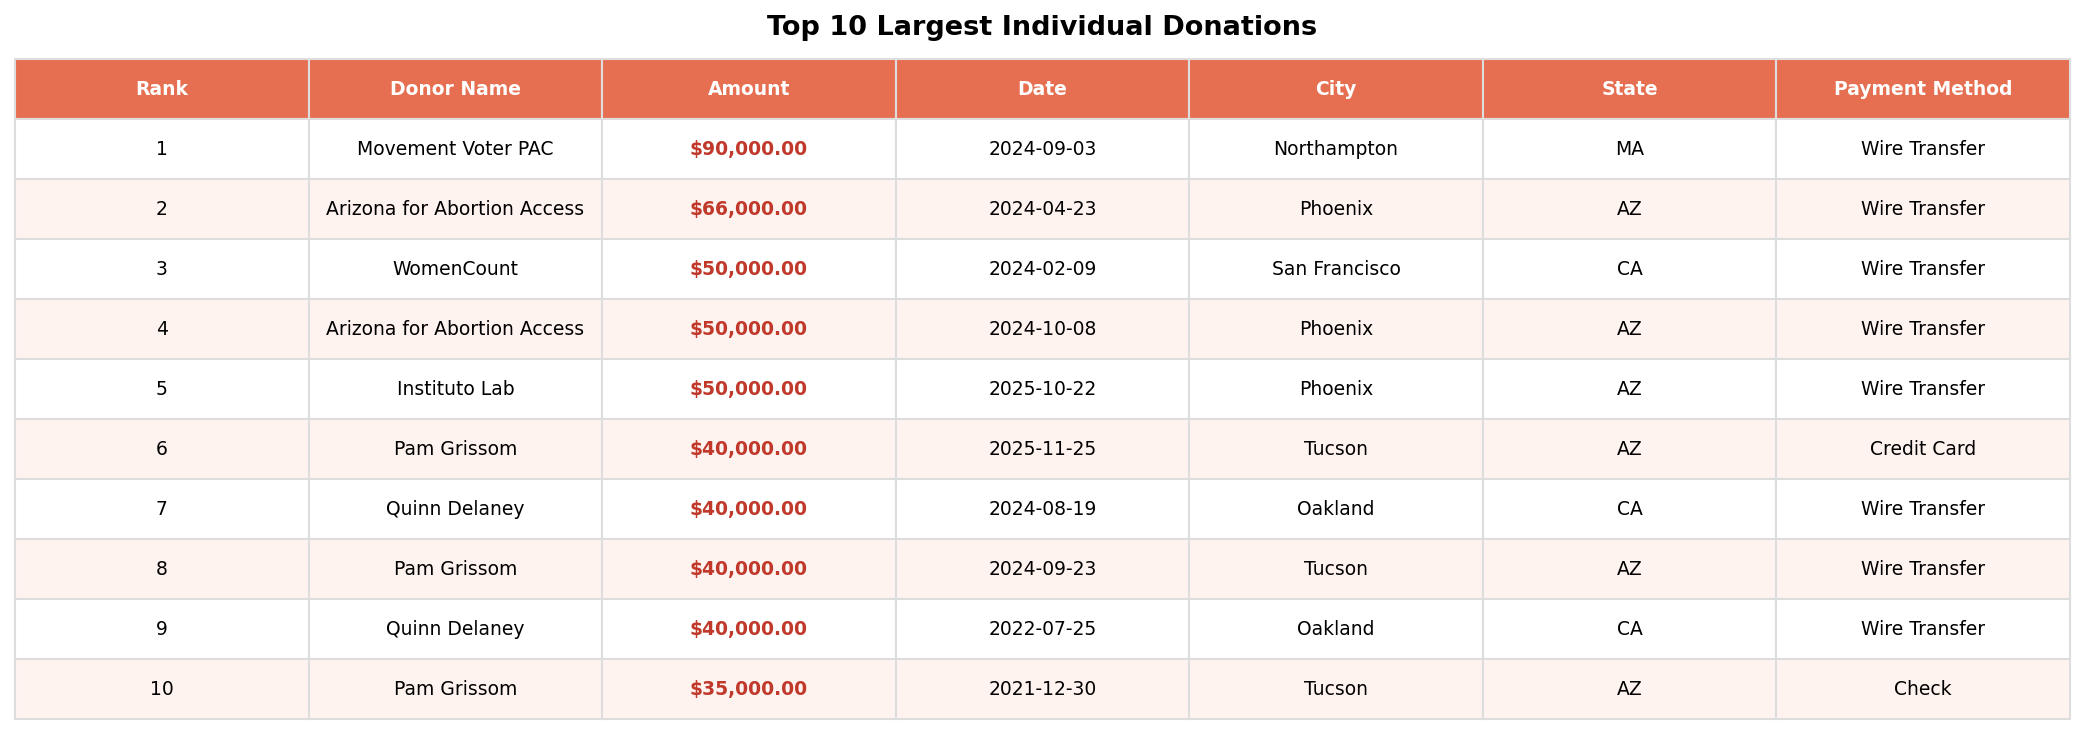
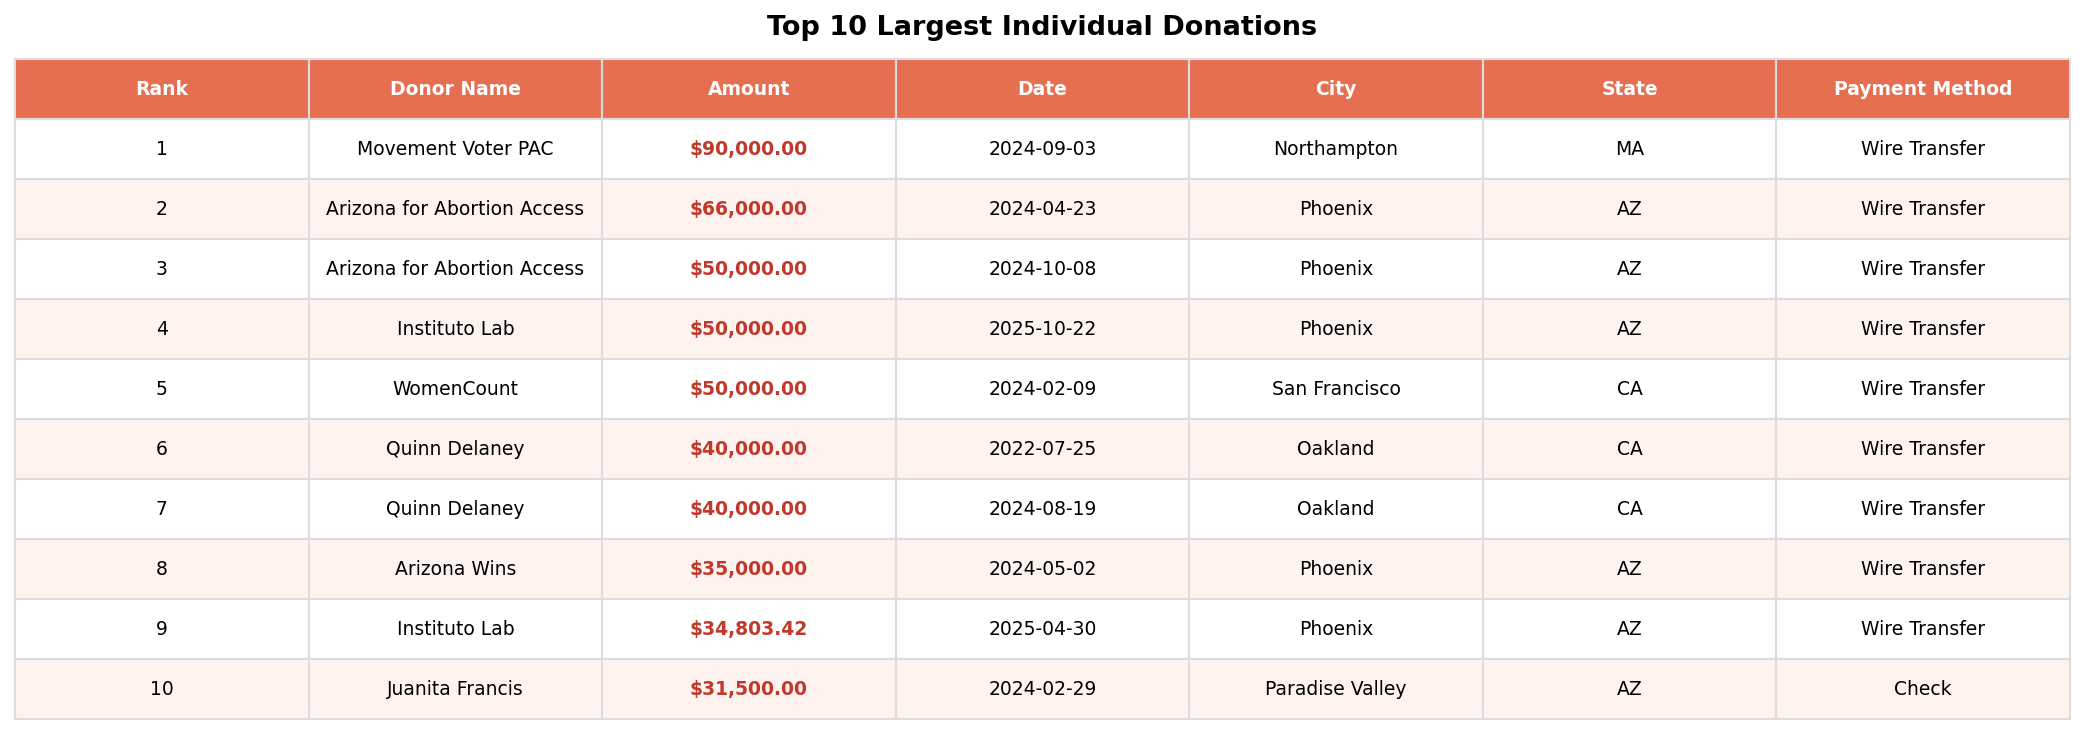
Commit

diff --git a/scripts/donor_location_analysis.py b/scripts/donor_location_analysis.py
@@ -39,6 +39,9 @@ with ENGINE.connect() as conn:
         FROM contributions co
         JOIN contacts c ON co.vanid = c.vanid
         WHERE co.amount > 0
+          AND COALESCE(NULLIF(TRIM(c.official_name), ''),
+                       NULLIF(TRIM(c.first || ' ' || c.last), ''),
+                       'Unknown') NOT ILIKE '%Pam Grissom%'
         ORDER BY co.amount DESC
         LIMIT 10
     """), conn)

diff --git a/analysis/technical_summary_report.md b/analysis/technical_summary_report.md
@@ -83,10 +83,6 @@ The LC represents just 5% of the full donor base — an intentionally exclusive 
 
 ![Donors vs. Leadership Council](lapsed_donor_reactivation/figures/donor_vs_leadership_council.svg)
 
-- The LC is a small, elite segment — 386 people out of nearly 8,000 donors.
-- 95% of donors have never been formally identified as LC members, representing a large pool of potential candidates for cultivation.
-- Because pre-2019 data is incomplete, the true LC membership count is likely higher than 386.
-
 ---
 
 ## 3. Direct Mail Opportunity: People Without an Email Address
@@ -123,9 +119,8 @@ For the address check, we required both a system-verified best address and confi
 
 ![Direct Mail Opportunity](lapsed_donor_reactivation/figures/mailing_no_email_opportunity.svg)
 
-- 16,440 people cannot receive an email from us — if we don't mail them, we have no way to reach out at all.
-- This group represents about 20% of all contacts in the database, a significant audience that is currently unreachable through digital channels.
-- The gap between "no email" (19,319) and "mailable + no email" (16,440) shows that roughly 2,900 people have neither a usable email nor a complete mailing address — entirely out of reach by any channel.
+- 16,440 people cannot receive an email from us, we can only mail them for reaching out
+- The gap between "no email" (19,319) and "mailable + no email" (16,440) shows that roughly 2,900 people have neither a usable email nor a complete mailing address 
 
 ---
 
@@ -158,9 +153,8 @@ Rather than mailing all 16,440 people at once, we slice by recency to create a s
 
 📄 **Export:** [people_added_since_january_postcard_outreach.csv](lapsed_donor_reactivation/people_added_since_january_postcard_outreach.csv)
 
-- The current list is small (6 people), but the process is what matters — run it again next quarter and it will automatically surface the next batch.
-- 5 of the 6 are in Arizona, consistent with our core geographic base.
-- One contact (Bradford Coleman, AR) is outside Arizona, suggesting some national reach through referrals or events.
+- The current list has 6 people
+
 
 ---
 
@@ -220,7 +214,7 @@ Value outranks recency in the ordering. A donor who gave $500/year for a decade 
 
 | Metric | Average |
 |--------|---------|
-| Years of giving | 7.4 |
+| Years of giving | 7.4 years |
 | Longest consecutive streak | 5.3 years |
 | Lifetime giving amount | $3,044 |
 
@@ -268,13 +262,13 @@ Because AZ's total ($5.87M) is over 11x the next highest state ($509K), we produ
 **Top 15 states by total giving:**
 ![State Donations Total](figures/state_donations_total.png)
 
-- Arizona dominates total volume with $5.87M — more than 11x the next highest state — reflecting our core geographic base.
+- Arizona dominates total volume with $5.87M, more than 11x the next highest state.
 - California and DC are nearly tied on total amount ($509K vs $505K), but DC has far fewer donors (317 vs 719), meaning DC donors give significantly more per person.
 
 **Year-over-year trends — top 12 states (including AZ):**
 ![State Donation Trends](figures/state_donations_trends.png)
 
-- AZ shows strong growth in 2024, reaching a record high of ~$700K — a notable acceleration after relatively flat years from 2017 to 2023.
+- AZ shows strong growth in 2024, reaching a record high of ~$700K.
 - Most non-AZ states show concentrated spikes in 2023–2024, suggesting election-cycle driven giving rather than consistent year-round engagement.
 - CA and DC have grown substantially since 2021, indicating expanding national reach.
 
@@ -303,23 +297,19 @@ The map answers the question the bar chart can't: are we geographically concentr
 **Top 20 ZIP Codes by total giving:**
 ![Top 20 ZIP Codes](figures/top20_zip_codes.png)
 
-- ZIP 85718 (Tucson foothills) alone accounts for $1.68M — nearly 3x the second-ranked ZIP — driven partly by a small number of very large donors in that area.
-- The top 5 ZIP codes are all in the 857xx range (Tucson), reflecting strong geographic concentration in one city.
-- ZIP 85004 (downtown Phoenix) ranks 3rd despite having only 218 donations, suggesting a cluster of high-capacity donors rather than broad community giving.
+- The top five ZIP codes are all in the 857xx range, which shows that giving is heavily concentrated in Tucson rather than spread evenly across different cities.
 
 **Top 20 ZIP Codes by total giving (excluding Pam Grissom — founder, not counted as donor):**
 ![Top 20 ZIP Codes excl. Grissom](figures/top20_zip_codes_excl_grissom.png)
 
-- After removing Pam Grissom's contributions, 85718 drops from $1.68M to $569K, revealing how much of that ZIP's total was driven by a single donor.
-- The ranking otherwise remains largely stable, confirming that the broader geographic patterns are genuine and not distorted by individual outliers.
-- This version gives a more accurate picture of community-level giving by ZIP code.
+- After removing Pam Grissom's contributions, 85718 drops from $1.68M to $569K, which means Pam Grissom donated over 1M!
+
 
 **National donor location map:**
 ![Donor Location Map](figures/donor_location_map.png)
 
 - The vast majority of donors are concentrated in southern Arizona, particularly in the Tucson and Phoenix metro areas.
 - A meaningful cluster is visible on the East Coast (DC, MA, NY), consistent with the high average donation amounts seen in those states.
-- Overall, the donor base is geographically concentrated — national reach exists but is thin outside of Arizona.
 
 ---
 
@@ -333,28 +323,31 @@ How have donation patterns shifted across cities and counties year over year?
 **City over time — number of donations (top 20 cities):**
 ![City Donations Count](figures/city_donations_count.png)
 
-- Tucson consistently leads in donation volume by a wide margin, with Phoenix a distant second.
-- Most cities show a noticeable uptick in donation count starting around 2022–2024, aligning with election cycle activity.
-- Smaller cities like Green Valley and Oro Valley show steady, low-volume giving — loyal but limited in scale.
+- Top 5 cities by total number of donations: Tucson 23,011 / Phoenix 8,603 / Scottsdale 2,776 / Tempe 2,022  / Flagstaff 1,665.
+
+- Tucson consistently leads in donation volume, with Phoenix a distant second
 
 **City over time — total amount (top 20 cities):**
 ![City Donations Amount](figures/city_donations_amount.png)
 
+- Top 5 cities by total donation amount: Tucson $3,829,899 / Phoenix $1,357,111 / Scottsdale $243,473 / Tempe $154,897 / Flagstaff $90,231.
 - Tucson and Phoenix dominate total dollar amounts, but Phoenix shows stronger growth in 2024–2025, narrowing the gap with Tucson.
 - Paradise Valley stands out: relatively few donations but a sharp spike in amount in 2025, indicating a small number of very large donations from a wealthy area.
 - Several mid-sized cities (Flagstaff, Mesa, Scottsdale) show consistent growth in total amount since 2020.
+- Lakeside ranks 14th by total amount ($28,536) despite having only 5 donors and 56 donations. Two donors account for 99% of that total — one gave a single $15,000 donations in March 2026, another gave $13,375 across 42 donations from 2004–2018.
 
 **County over time — number of donations (top 20 counties):**
 ![County Donations Count](figures/county_donations_count.png)
 
-- Pima County (Tucson) accounts for the overwhelming majority of donations by count, with Maricopa County (Phoenix) in second.
+- Top 5 counties by number of donations : Pima 25,136 / Maricopa 18,278 / Coconino 1,810 / Pinal 1,155 / Yavapai 1,071.
+- Pima County accounts for the overwhelming majority of donations by count, with Maricopa County in second.
 - Most other counties contribute very small donation volumes, confirming that giving is highly concentrated in two metro areas.
 
 **County over time — total amount (top 20 counties):**
 ![County Donations Amount](figures/county_donations_amount.png)
 
+- Top 5 counties by total donation amount: Pima $3,933,821 / Maricopa $2,073,250 / District of Columbia $534,534 / Hampshire $160,180 / Alameda $124,943.
 - Pima County leads total amount every year, but Maricopa County's share has grown steadily, suggesting Phoenix is becoming a more significant funding base.
-- Out-of-state counties (visible in the lower panels) contribute sporadically, driven by individual large donors rather than sustained community engagement.
 
 ---
 
@@ -365,18 +358,15 @@ How have donation amounts and donation counts trended over time in Arizona? Whic
 
 ### Approach
 
-We tracked two metrics in parallel — total dollar amount and total number of donations — because they can move in different directions. A year with fewer but larger donations looks very different from a year with more but smaller donations. Both matter, and neither alone tells the full story.
+We tracked two metrics in parallel — total dollar amount and total number of donations — because they can move in different directions. A year with fewer but larger donations looks very different from a year with more but smaller donations. 
 
-Data is scoped to 2010–2026. Years before 2010 have sparse records that would distort the trend line without adding meaningful signal.
+Data is scoped to 2010–2026. Years before 2010 have sparse records.
 
 ### Charts
 
 **Annual donation amount (line) and donation count (bar):**
 ![Donation Trends](figures/donation_trends.png)
 
-- 2024 was the strongest year on record by total amount (~$711K), followed by 2025 (~$558K) — two consecutive record-breaking years.
-- Donation counts have grown steadily from ~2,100 in 2010 to nearly 4,000 in 2025, reflecting a growing and more engaged donor base.
-- 2018 was an earlier peak in both count and amount, likely driven by election-year mobilization, followed by a dip in 2019–2021.
 
 **Year-by-year summary table:**
 ![Donation Trends Table](figures/donation_trends_table.png)
@@ -396,9 +386,8 @@ Pulled the top 10 rows from `contributions` ordered by amount descending, joined
 
 ![Top 10 Donations](figures/top10_donations.png)
 
-- The largest single donation ($90,000 from Movement Voter PAC) is an organizational gift, not an individual one — highlighting the importance of institutional relationships alongside individual donors.
-- Pam Grissom appears three times in the top 10, with donations of $40K, $40K, and $35K, confirming her status as the most significant individual donor in the database.
-- Arizona for Abortion Access appears twice (rank 2 and 4), suggesting a recurring organizational giving relationship tied to specific campaigns or ballot measures.
+- The largest single donation is $90,000 from Movement Voter PAC.
+- Arizona for Abortion Access appears twice (rank 2 and 3).
 
 ---
 
